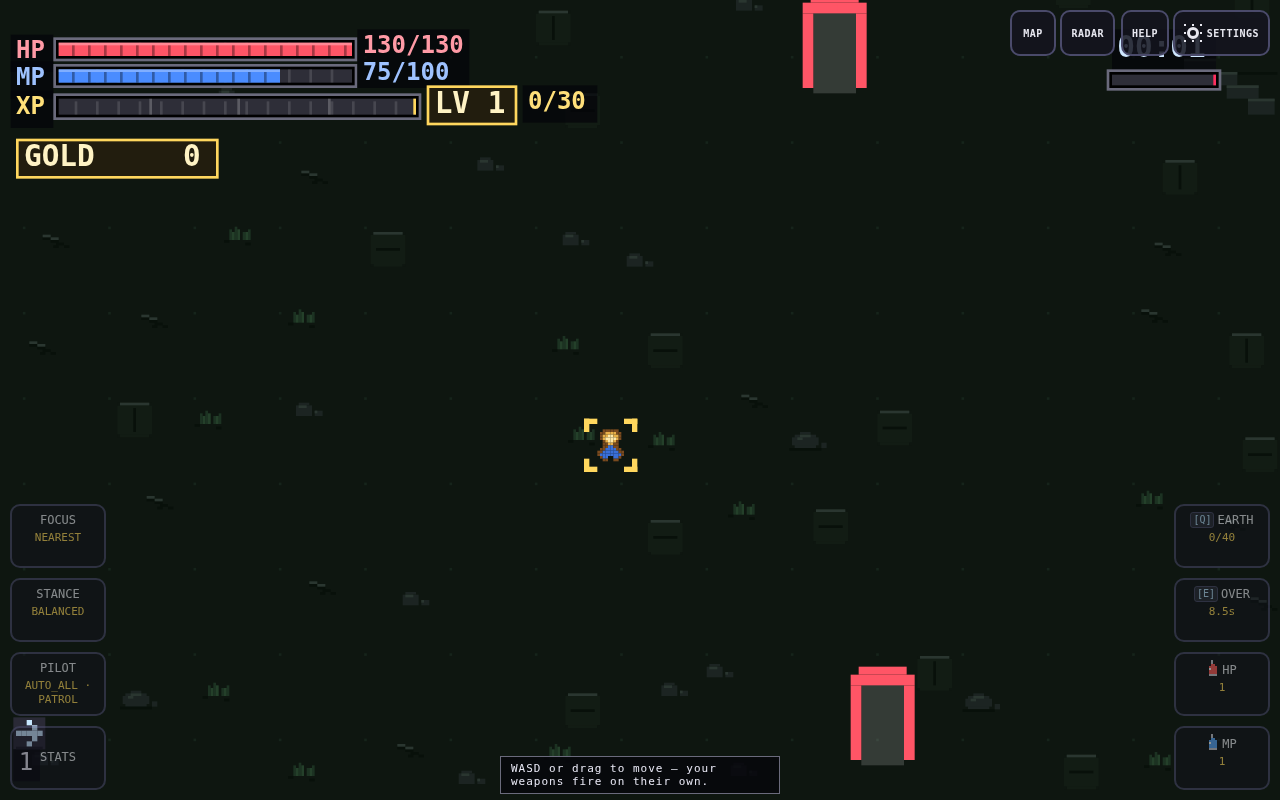
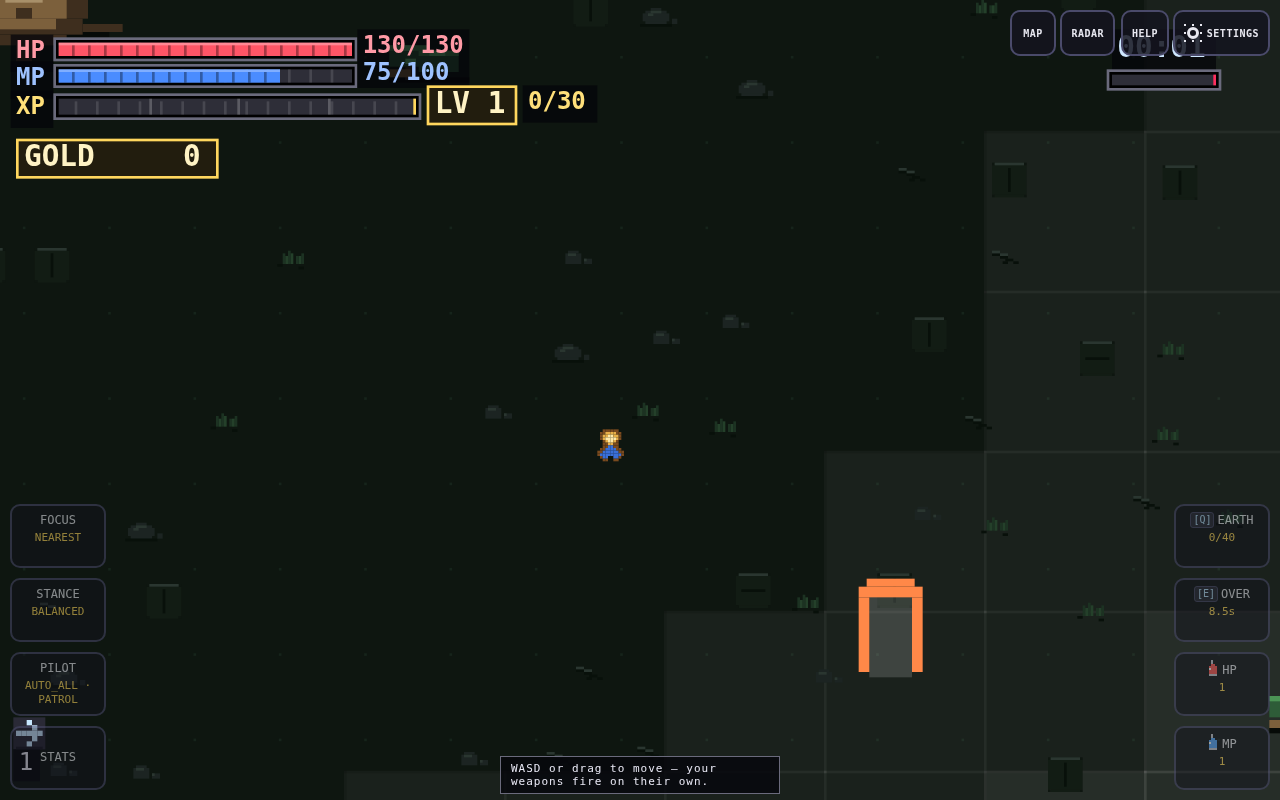
hordes: 2026-09-18 03:52 batch
Touched: src/main.js
Suite green at commit time (148 files).

diff --git a/src/main.js b/src/main.js
@@ -456,6 +456,52 @@ function chromeLayoutRects() {
   consider(document.getElementById('hud'));
   return out;
 }
+// UI-TIGHT (owner 2026-09-18, hosted-short-landscape follow-on to
+// msg_01M2S72CF4902CWRWE7VJ3Y22M): the bottom-anchored pad stack (296px)
+// and the top-right cog row (~56px) COLLIDE once a host header eats ~60px —
+// buttons stacked on buttons, the owner's "everything is a little cut off".
+// A uniform scale cannot fix this (it preserves relative geometry), so the
+// LAYOUT degrades instead, exactly as the task mandates: while the box is
+// tight the cog row moves to the top CENTRE — horizontally clear of the side
+// pads at every acceptance width, still inside the live-measured top band
+// the canvas fit already reserves (round-5 zero-overlap untouched), and
+// clamped right of the live HUD block so chrome never stacks on chrome.
+// Inline placement (this file's house style for canvas/steer-zone): left is
+// set and right cleared, so relaxing clears both and the CSS right-anchored
+// row returns on the next fit.
+let cogTight = false;
+function placeCogRow(tight, vw) {
+  const touch = document.getElementById('touch');
+  if (!touch || !touch.querySelectorAll) return;
+  const cogs = [...touch.querySelectorAll('button.cog')];
+  if (!tight) {
+    if (cogTight) for (const el of cogs) { el.style.left = ''; el.style.right = ''; }
+    cogTight = false;
+    return;
+  }
+  cogTight = true;
+  // Visual left-to-right order is MAP, RADAR, HELP, SETTINGS — the reverse
+  // of the DOM's right-anchored order.
+  const ordered = [...cogs].reverse();
+  const GAP = 6;
+  const rects = ordered.map((el) => {
+    const v = el.getBoundingClientRect();
+    return { el, w: v.width / uiScaleNow };
+  });
+  const rowW = rects.reduce((s, r) => s + r.w, 0) + GAP * (rects.length - 1);
+  let start = (vw - rowW) / 2;
+  const hud = document.getElementById('hud');
+  if (hud && hud.isConnected) {
+    const hr = hud.getBoundingClientRect();
+    if (hr.width > 0) start = Math.max(start, hr.right / uiScaleNow + 8);
+  }
+  let x = Math.min(start, vw - 10 - rowW);
+  for (const r of rects) {
+    r.el.style.left = Math.round(x) + 'px';
+    r.el.style.right = 'auto';
+    x += r.w + GAP;
+  }
+}
 function fitCanvas() {
   if (!window.innerWidth || !canvas.style) return; // stub/headless guard
   lastFitFellBack = false;
@@ -481,6 +527,18 @@ function fitCanvas() {
   // against: the whole-viewport letterbox stands exactly as before.
   if (typeof getComputedStyle === 'function' && touchLayerLive()) {
     placed = true;
+    // UI-TIGHT detection (layout px): the pads' highest top vs the cog row's
+    // bottom — less than a 4px guard between them and the two stacks collide.
+    // placeCogRow runs BEFORE any rects are read so the fit, the bands and the
+    // UI scale all measure the DEGRADED layout the player will actually see.
+    let padTopMin = Infinity;
+    for (const el of document.querySelectorAll('#touch .pad')) {
+      if (!el.isConnected) continue;
+      const cs = getComputedStyle(el);
+      if (cs.display === 'none' || cs.visibility === 'hidden') continue;
+      padTopMin = Math.min(padTopMin, el.getBoundingClientRect().top / uiScaleNow);
+    }
+    placeCogRow(padTopMin < topChromeBottom() + 4, vw);
     bands = controlBands();
     const bf = bandFit(vw, vh, bands);
     if (!bf.fallback) {
